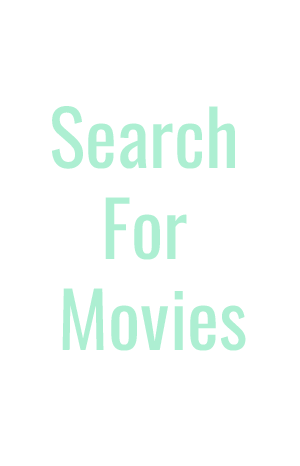
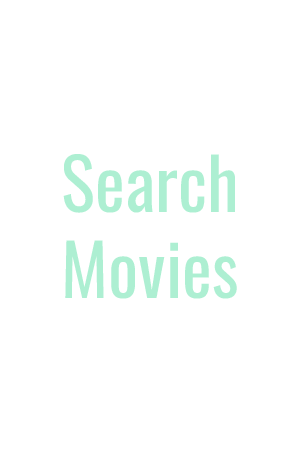
update styling

Changed region(s): [[0.15, 0.2103, 0.84, 0.7511]]

diff --git a/public/index.html b/public/index.html
@@ -10,6 +10,11 @@
     />
     <link rel="manifest" href="%PUBLIC_URL%/manifest.json" />
 
+    <!-- Google Fonts -->
+    <link rel="preconnect" href="https://fonts.googleapis.com">
+    <link rel="preconnect" href="https://fonts.gstatic.com" crossorigin>
+    <link href="https://fonts.googleapis.com/css2?family=Oswald:wght@300;500&family=Quattrocento&display=swap" rel="stylesheet">
+
     <title>Joe Movie App</title>
   </head>
   <body>

diff --git a/src/App.css b/src/App.css
@@ -1,6 +1,16 @@
+/* General Styling */
 body {
   background: #00203FFF;
   color: #ADEFD1FF;
+  font-family: 'Oswald', sans-serif;
+}
+
+.oswald {
+  font-family: 'Oswald', sans-serif;
+}
+
+.quatt {
+  font-family: 'Quattrocento', serif;
 }
 
 .movie-app .row {
